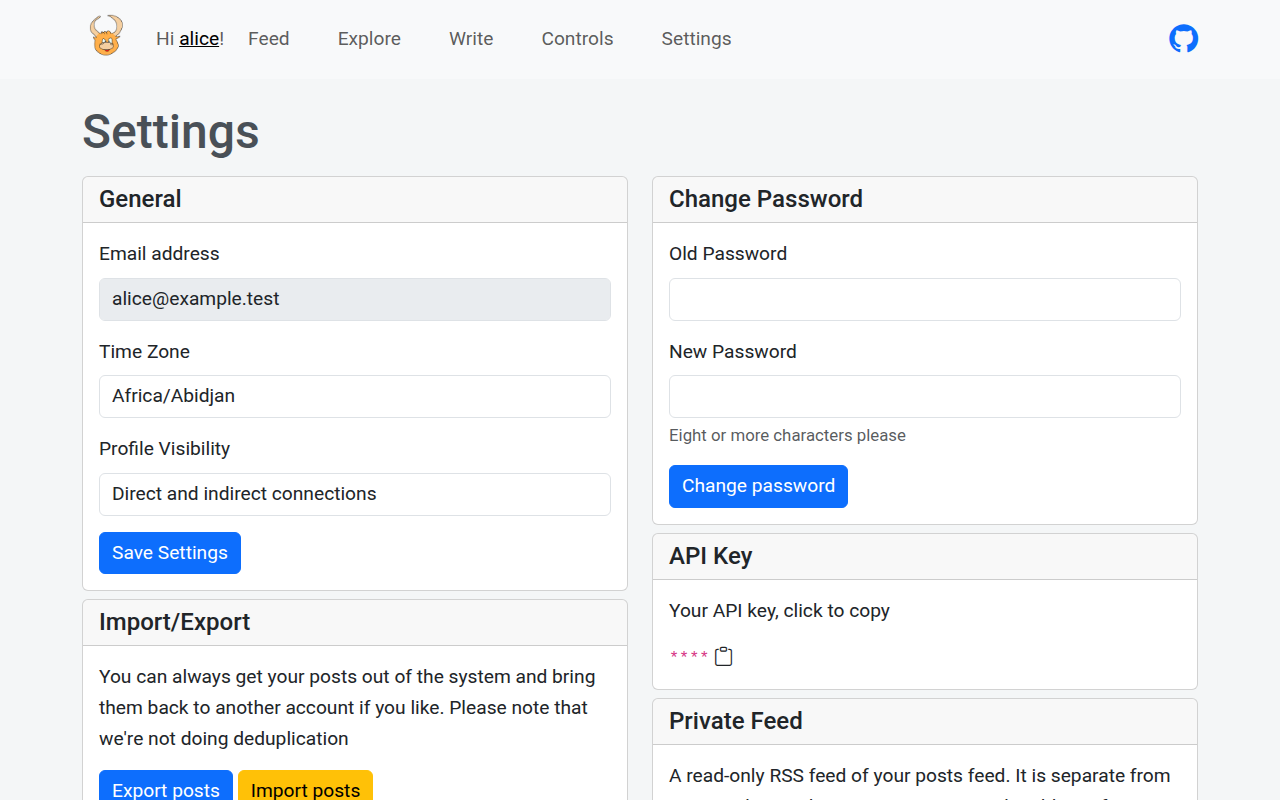
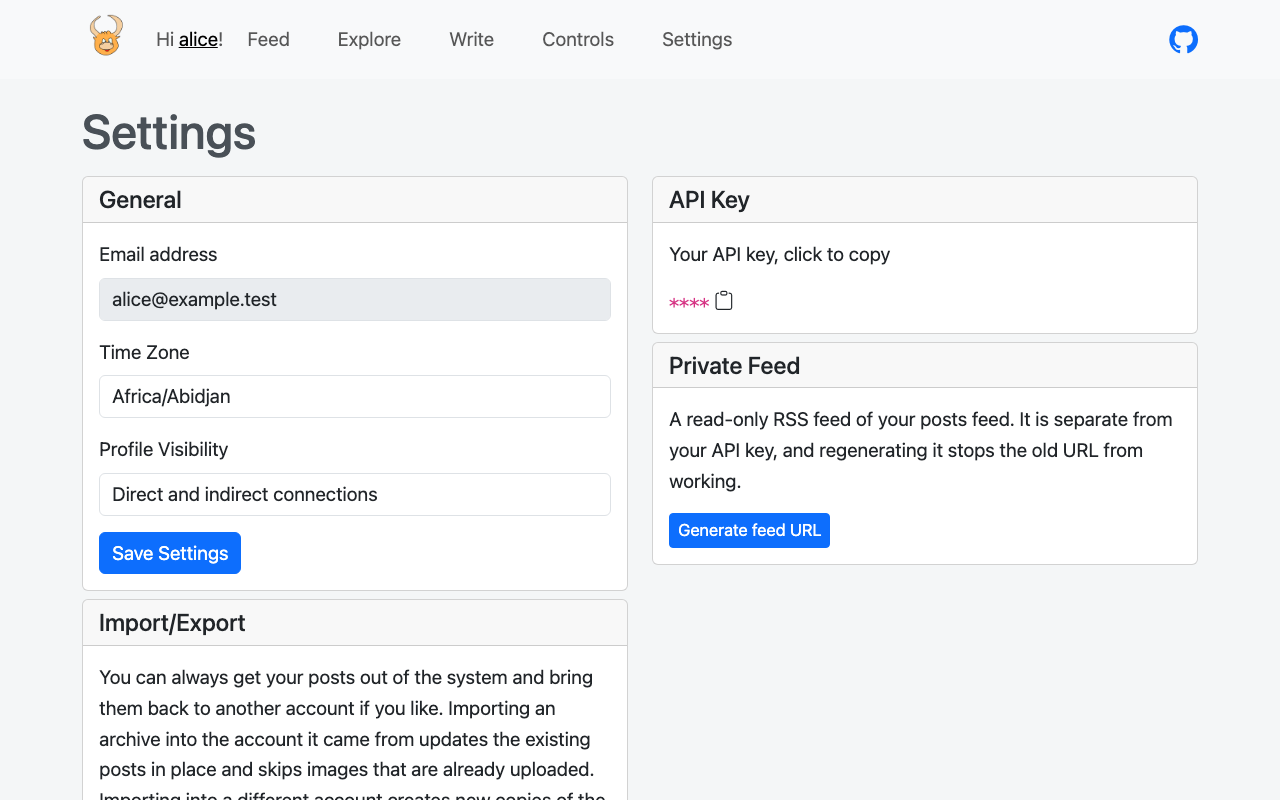
docs(f5): the guide logs in with a code; settings has no password
The guide F6 wrote still had a Password section and screenshot. Settings
drops both; the overview gains "Logging in" (the code, an unconfirmed
signup, the 24-hour cleanup) and the one-account-per-mailbox rule.

Claude-Session: https://claude.ai/code/session_01Nunbg4jkBk3b3WodWt6ccm

diff --git a/docs/guide/overview.md b/docs/guide/overview.md
@@ -13,12 +13,16 @@ Nothing is shared by default. A post reaches your direct connections, optionally
 - Write in markdown, keep drafts and publish when ready: [Writing](writing.md).
 - Read what your connections wrote, browse public posts and follow outside RSS feeds: [Feed and RSS](feed.md).
 - Talk about a post with the people who can see its comments: [Comments](comments.md).
-- Choose who can see your profile, change your password and take your posts with you: [Settings](settings.md).
+- Choose who can see your profile and take your posts with you: [Settings](settings.md).
 - Post from the command line or your own scripts: [API and blg](api.md).
 - Run your own copy: [Self-hosting](self-hosting.md).
 
 ## Signing up
 
-Without an account you see the public index above and any public profile or post. To get an account you follow an invitation from a member, which also connects you to them, or you sign up on the site if it is open. An account created from an invitation gets one invitation of its own, shown in [Settings](settings.md); more come from the site admin.
+Without an account you see the public index above and any public profile or post. To get an account you follow an invitation from a member, which also connects you to them, or you sign up on the site if it is open. An account created from an invitation gets one invitation of its own, shown in [Settings](settings.md); more come from the site admin. One mailbox gets one account: a `+tag` or, on Gmail, extra dots in the address count as the same mailbox.
+
+## Logging in
+
+There are no passwords. You enter your email address on the login page, pcom mails you an 8-digit code, and you type it on the same page. A code works once, for 15 minutes. If you signed up but never typed the code, log in the same way: the code confirms your address. An account nobody confirms within a day is deleted.
 
 The source and the developer documentation are on [GitHub](https://github.com/can3p/pcom); the [README](../../README.md) is the way in.

diff --git a/docs/guide/settings.md b/docs/guide/settings.md
@@ -1,16 +1,12 @@
 # Settings
 
-Settings is where you manage your account: who can see your profile, your password, invitations, feeds, API key and a backup of your posts.
+Settings is where you manage your account: who can see your profile, invitations, feeds, API key and a backup of your posts.
 
 ![The settings page.](screenshots/settings.png)
 
 ## General
 
 You can see your email address, set your time zone, which decides how times are shown to you, and choose your profile visibility: public, registered users, or direct and indirect connections. What each means is in [Connections](connections.md).
-
-## Password
-
-Change your password by entering the old one and a new one of at least eight characters.
 
 ## Invitations
 
